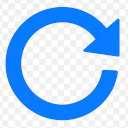
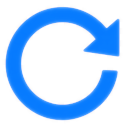
start/replay as images, not button widgets

diff --git a/hangperson_wx.py b/hangperson_wx.py
@@ -32,7 +32,11 @@ class HangpersonFrame(wx.Frame):
     EMPTY_BAD_GUESS_SLOT_LABEL = ""
     LANGUAGE_IMAGE_SIZE = (120, 60)
     DIFFICULTY_IMAGE_SIZE = (120, 92)
-    ACTION_BUTTON_IMAGE_SIZE = (27, 27)
+    START_BUTTON_IMAGE_SIZE = (46, 46)
+    RESTART_BUTTON_IMAGE_SIZE = START_BUTTON_IMAGE_SIZE
+    START_BUTTON_MIN_SIZE = (82, 78)
+    RESTART_BUTTON_MIN_SIZE = START_BUTTON_MIN_SIZE
+    STATUS_ACTION_TOP_GAP = 4
     COLOR_BG_BASE = (242, 245, 249)
     COLOR_BG_DRAW = (232, 237, 245)
     COLOR_BG_BOTTOM = (236, 244, 236)
@@ -137,6 +141,9 @@ class HangpersonFrame(wx.Frame):
         self.language_badge_fallback: wx.StaticText | None = None
         self.difficulty_badge_bitmap: wx.StaticBitmap | None = None
         self.difficulty_badge_fallback: wx.StaticText | None = None
+        self.action_button_panel: wx.Panel | None = None
+        self.action_button_bitmap: wx.StaticBitmap | None = None
+        self.action_button_fallback: wx.StaticText | None = None
         self._character_bitmap_cache: dict[tuple[str, str, tuple[int, int]], wx.Bitmap | None] = {}
 
         self._build_layout()
@@ -353,8 +360,24 @@ class HangpersonFrame(wx.Frame):
         difficulty_badge_sizer.AddStretchSpacer(1)
         self.difficulty_badge_panel.SetSizer(difficulty_badge_sizer)
 
-        self.new_game_button = wx.Button(panel, label="")
-        self.new_game_button.Bind(wx.EVT_BUTTON, self.on_new_game)
+        self.action_button_panel = wx.Panel(panel)
+        self.action_button_panel.SetBackgroundColour(wx.Colour(*self.COLOR_BG_STATUS))
+        self.action_button_panel.SetMinSize(self.START_BUTTON_MIN_SIZE)
+        action_button_sizer = wx.BoxSizer(wx.VERTICAL)
+        self.action_button_bitmap = wx.StaticBitmap(
+            self.action_button_panel, bitmap=wx.Bitmap(1, 1)
+        )
+        self.action_button_fallback = wx.StaticText(
+            self.action_button_panel, label="", style=wx.ALIGN_CENTER_HORIZONTAL
+        )
+        self.action_button_fallback.SetFont(wx.Font(wx.FontInfo(20).Bold()))
+        self.action_button_fallback.SetForegroundColour(wx.Colour(*self.COLOR_TEXT_PRIMARY))
+        action_button_sizer.AddStretchSpacer(1)
+        action_button_sizer.Add(self.action_button_bitmap, 0, wx.ALIGN_CENTER_HORIZONTAL)
+        action_button_sizer.Add(self.action_button_fallback, 0, wx.ALIGN_CENTER_HORIZONTAL)
+        action_button_sizer.AddStretchSpacer(1)
+        self.action_button_panel.SetSizer(action_button_sizer)
+        self._bind_action_button_click_targets()
 
         self.guess_input = wx.TextCtrl(panel, style=wx.TE_PROCESS_ENTER | wx.TE_CENTER)
         self.guess_input.SetMaxLength(5)
@@ -377,8 +400,8 @@ class HangpersonFrame(wx.Frame):
         sizer.Add(
             self.difficulty_badge_panel, 0, wx.EXPAND | wx.LEFT | wx.RIGHT, 12
         )
-        sizer.AddStretchSpacer(1)
-        sizer.Add(self.new_game_button, 0, wx.ALIGN_CENTER_HORIZONTAL)
+        sizer.AddSpacer(self.STATUS_ACTION_TOP_GAP)
+        sizer.Add(self.action_button_panel, 0, wx.ALIGN_CENTER_HORIZONTAL)
         sizer.AddStretchSpacer(1)
         sizer.Add(guess_area, 0, wx.EXPAND)
         sizer.AddStretchSpacer(2)
@@ -386,6 +409,17 @@ class HangpersonFrame(wx.Frame):
         panel.SetSizer(sizer)
 
         self._bind_badge_click_targets()
+
+    def _bind_action_button_click_targets(self) -> None:
+        targets: list[wx.Window | None] = [
+            self.action_button_panel,
+            self.action_button_bitmap,
+            self.action_button_fallback,
+        ]
+        for widget in targets:
+            if widget is not None:
+                widget.Bind(wx.EVT_LEFT_UP, self.on_new_game)
+                widget.SetCursor(wx.Cursor(wx.CURSOR_HAND))
 
     def _bind_badge_click_targets(self) -> None:
         targets: list[tuple[wx.Window | None, wx.PyEventBinder, callable]] = [
@@ -726,7 +760,7 @@ class HangpersonFrame(wx.Frame):
             return False
         return not self.game.is_won() and not self.game.is_lost()
 
-    def on_new_game(self, _: wx.CommandEvent) -> None:
+    def on_new_game(self, _: wx.Event) -> None:
         if self.ui_mode == self.UI_MODE_SETUP:
             if self.start_session():
                 return
@@ -900,76 +934,62 @@ class HangpersonFrame(wx.Frame):
             if self.IsShownOnScreen():
                 start_icon = self._load_scaled_bitmap(
                     self._assets_root() / "buttons" / "start_rocket.png",
-                    self.ACTION_BUTTON_IMAGE_SIZE,
+                    self.START_BUTTON_IMAGE_SIZE,
                 )
             try:
                 if start_icon is not None:
-                    self._set_action_button_bitmap(start_icon)
-                    self.new_game_button.SetLabel("")
+                    self._show_action_button_bitmap(start_icon)
                 else:
                     # Fallback when bitmap assets are unavailable or too early to set.
-                    self._clear_action_button_bitmaps()
-                    self.new_game_button.SetLabel(str(self.ui["start_button"]))
+                    self._show_action_button_fallback(str(self.ui["start_button"]))
             except wx.PyAssertionError:
                 # GTK-safe fallback if image widget is not ready yet.
-                self._clear_action_button_bitmaps()
-                self.new_game_button.SetLabel(str(self.ui["start_button"]))
-            self.new_game_button.SetForegroundColour(wx.Colour(0, 110, 50))
-            self.new_game_button.SetToolTip(str(self.ui["start_button"]))
+                self._show_action_button_fallback(str(self.ui["start_button"]))
+            self._set_action_button_tooltip(str(self.ui["start_button"]))
         else:
             restart_icon: wx.Bitmap | None = None
             if self.IsShownOnScreen():
                 restart_icon = self._load_scaled_bitmap(
                     self._assets_root() / "buttons" / "restart_arrow.png",
-                    self.ACTION_BUTTON_IMAGE_SIZE,
+                    self.RESTART_BUTTON_IMAGE_SIZE,
                 )
-            self._clear_action_button_bitmaps()
             if restart_icon is not None:
-                self._set_action_button_bitmap(restart_icon)
-                self.new_game_button.SetLabel("")
+                self._show_action_button_bitmap(restart_icon)
             else:
-                self.new_game_button.SetLabel("↻")
-            self.new_game_button.SetForegroundColour(wx.Colour(0, 95, 200))
-            self.new_game_button.SetToolTip(str(self.ui["new_game_button"]))
-        self.new_game_button.SetFont(wx.Font(wx.FontInfo(14).Bold()))
-        self.new_game_button.SetMinSize((56, 44))
-        self.new_game_button.Refresh()
+                self._show_action_button_fallback("↻")
+            self._set_action_button_tooltip(str(self.ui["new_game_button"]))
+        min_size = (
+            self.START_BUTTON_MIN_SIZE
+            if self.ui_mode == self.UI_MODE_SETUP
+            else self.RESTART_BUTTON_MIN_SIZE
+        )
+        if self.action_button_panel is not None:
+            self.action_button_panel.SetMinSize(min_size)
+            self.action_button_panel.Layout()
+            self.action_button_panel.Refresh()
 
-    def _set_action_button_bitmap(self, bitmap: wx.Bitmap) -> None:
-        set_methods = [
-            "SetBitmap",
-            "SetBitmapLabel",
-            "SetBitmapCurrent",
-            "SetBitmapPressed",
-            "SetBitmapFocus",
-        ]
-        for method_name in set_methods:
-            method = getattr(self.new_game_button, method_name, None)
-            if method is None:
-                continue
-            try:
-                method(bitmap)
-            except Exception:
-                continue
+    def _show_action_button_bitmap(self, bitmap: wx.Bitmap) -> None:
+        if self.action_button_bitmap is None or self.action_button_fallback is None:
+            return
+        self.action_button_bitmap.SetBitmap(bitmap)
+        self.action_button_bitmap.Show()
+        self.action_button_fallback.Hide()
 
-    def _clear_action_button_bitmaps(self) -> None:
-        transparent = wx.Bitmap(1, 1)
-        clear_methods = [
-            "SetBitmap",
-            "SetBitmapLabel",
-            "SetBitmapCurrent",
-            "SetBitmapPressed",
-            "SetBitmapDisabled",
-            "SetBitmapFocus",
-        ]
-        for method_name in clear_methods:
-            method = getattr(self.new_game_button, method_name, None)
-            if method is None:
-                continue
-            try:
-                method(transparent)
-            except Exception:
-                continue
+    def _show_action_button_fallback(self, label: str) -> None:
+        if self.action_button_bitmap is None or self.action_button_fallback is None:
+            return
+        self.action_button_bitmap.Hide()
+        self.action_button_fallback.SetLabel(label)
+        self.action_button_fallback.Show()
+
+    def _set_action_button_tooltip(self, tooltip: str) -> None:
+        for widget in [
+            self.action_button_panel,
+            self.action_button_bitmap,
+            self.action_button_fallback,
+        ]:
+            if widget is not None:
+                widget.SetToolTip(tooltip)
 
     def _update_badge_tooltips(self) -> None:
         if self.ui_mode == self.UI_MODE_SETUP:
